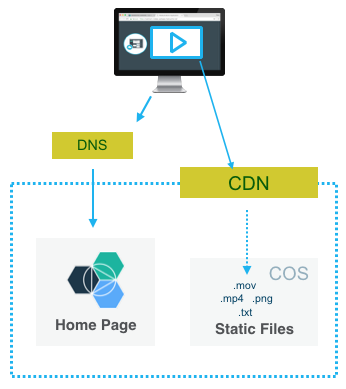
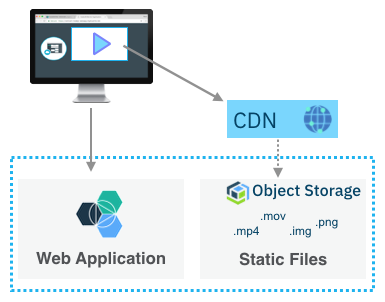
solution3 updates

Changed region(s): [[0.0289, 0.0, 0.9827, 0.9834], [0.0867, 0.6258, 0.4335, 0.894]]

diff --git a/static-website.md b/static-website.md
@@ -1,10 +1,12 @@
-# Serve static files to users around the world
-Host and serve website assets and user generated cotent in a Content Delivery Network (CDN) and Cloud Object Storage fast and secure to users around the world.
+# Low latency delivery of static files to users around the world
+
+Host and serve website assets (images, videos, documents) and user generated cotent in a Cloud Object Storage and use a Content Delivery Network (CDN) for fast and secure to users around the world.
 
 ## Objectives
 * Create a Cloud Object Storage S3 bucket
 * Upload files to a bucket
-* Make the website content globally available with a CDN
+* Make the content globally available with a CDN
+* Expose files using a Cloud Foundry web application
 
 ![](images/solution3/Solution3Architecture.png)
 
@@ -23,30 +25,24 @@ Host and serve website assets and user generated cotent in a Content Delivery Ne
    * Go to https://control.bluemix.net
    * Confirm you can see the `Storage` section and the `Object Storage` section underneath
 
-## Create a Cloud Object Storage S3 bucket
+## Create an Object Storage
 {: #create_cos}
+
+Cloud Object Storage provides flexible, cost-effective, and scalable cloud storage for unstructured data.
 
 ### Create a Cloud Object Storage S3
 
 1. Go in the Bluemix catalog
 
-2. Search for **Storage**
+2. Click on **Storage** and then **Cloud Object Storage**
 
-3. Select **Cloud Object Storage**
+3. Select **Cloud Object Storage S3** and click **Create** and **Continue**.
 
-4. Select **Cloud Object Storage S3**
+4. Review terms and click **Place Order**
 
-5. Click **Create**
+5. Go to the **Storage** page https://control.bluemix.net/storage/objectstorage to view the newly created storage
 
-   > You are redirected to the Infrastructure console
-
-6. Click **Continue**
-
-7. Click **Place Order**
-
-8. Go to the **Storage** page https://control.bluemix.net/storage/objectstorage to view the newly created storage
-
-9. Update its description with your name to easily find the storage later
+6. Update its description with your name to easily find the storage later
 
 ### Create a bucket
 
@@ -67,15 +63,16 @@ Host and serve website assets and user generated cotent in a Content Delivery Ne
 ## Upload files to a bucket
 {: #upload}
 
+In this section, we will use a desktop client to connect to the COS, upload files and configure permissions. 
+
 ### Configure a desktop client to work with the storage
 
-By default the bucket and its files are not publicly available. We are going to check the permissions so that the file can be accessed through the Internet without authentication.
+By default the bucket and its files are not publicly available. We are going to change the permissions so that the file can be accessed through the Internet without authentication.
 
-COS provides a S3 compatible API https://ibm-public-cos.github.io/crs-docs/api-reference and you can use command line interfaces too https://ibm-public-cos.github.io/crs-docs/cli.
+COS provides both a [S3 compatible API](https://ibm-public-cos.github.io/crs-docs/api-reference) and [command line interfaces](https://ibm-public-cos.github.io/crs-docs/cli).
 
-Cyberduck is a desktop client that makes it easy to work with S3 storages.
+**Cyberduck** is a desktop client that makes it easy to work with S3 storages. Follow the steps detailed here https://ibm-public-cos.github.io/crs-docs/desktop-clients to configure Cyberduck to access your storage. The steps are:
 
-Follow the steps detailed here https://ibm-public-cos.github.io/crs-docs/desktop-clients to configure Cyberduck to access your storage. The steps are:
       1. Download an install Cyberduck from https://cyberduck.io/
       2. Add a new connection of type **S3 Storage**
       3. Find your storage access keys and endpoints in the storage page
@@ -84,7 +81,7 @@ Follow the steps detailed here https://ibm-public-cos.github.io/crs-docs/desktop
 
 1. Go inside the created bucket
 
-2. Upload one file named **index.html**
+2. Upload file named **LargeImage.jpg**. You can download a sample image file here [LINK]. 
 
 ### Make the file publicly available
 
@@ -94,9 +91,11 @@ Follow the steps detailed here https://ibm-public-cos.github.io/crs-docs/desktop
 
    http://s3-api.us-geo.objectstorage.softlayer.net/your-bucket-name/your-filename
 
-   > this link is for a cross-region bucket in the US
+   > This link is for a cross-region bucket in the US
 
 ## Make the website content globally available with a CDN
+
+In this section, we will create a CDN service. The CDN service distributes content where it is needed. The first time content is requested, it’s pulled from the host server (our image in Object Storage) to the network and stays there for other users to access it quickly without the network latency to reach the host server again.
 
 ### Create a CDN instance
 

diff --git a/multi-region-webapp.md b/multi-region-webapp.md
@@ -37,7 +37,7 @@ Start by creating a Node.js starter application which runs in a Cloud Foundry en
 
 1.  Click on **Catalog** in the top navigation bar.
 
-2.  Click on **Cloud Foundry Apps** under Platform on the left pane and Select **SDK for Node.js** .
+2.  Click on **Cloud Foundry Apps** under Platform on the left pane and select **SDK for Node.js** .
 
      ![](images/solution1/SDKforNodejs.png)
 
